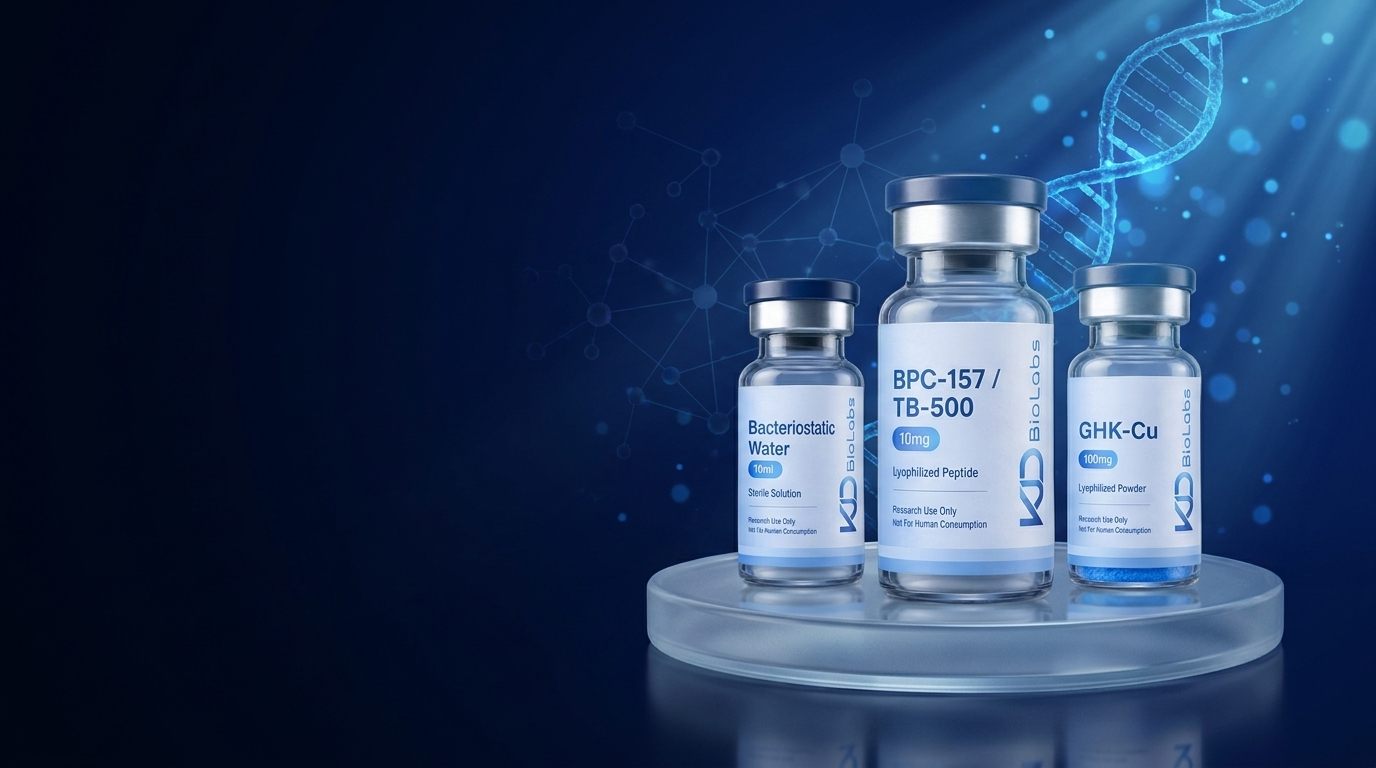
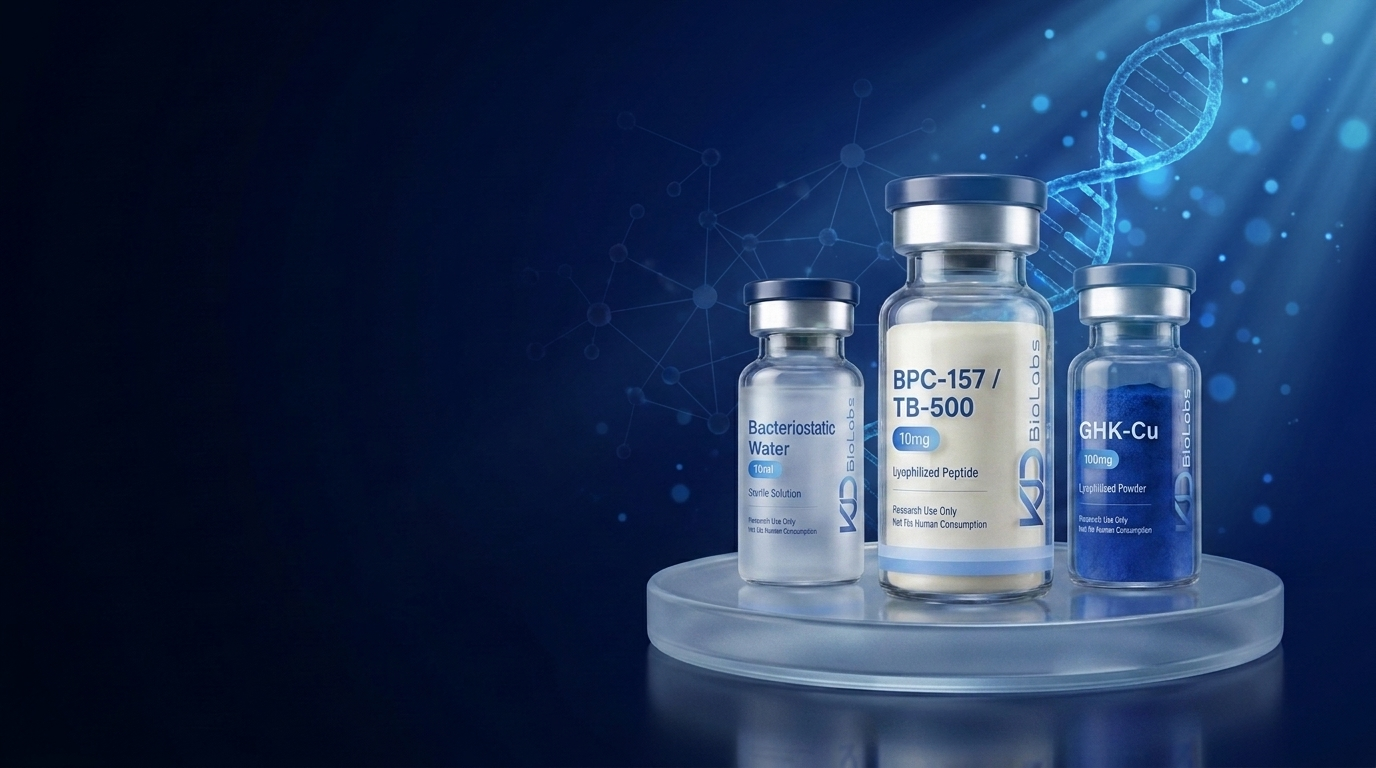
feat: solid (filled) hero vials + animated hero scene
- Regenerated the hero (Gemini edit pass) so the vials read as full and
  substantial: dense lyophilized cake / frosted liquid / blue powder instead
  of empty see-through glass. Composition, pedestal, DNA, rays preserved.
- Added motion over the static scene: a slow cinematic drift on the image
  (animate-hero-pan) plus 6 rising glow particles. GPU transform/opacity only,
  disabled under prefers-reduced-motion.

diff --git a/src/app/globals.css b/src/app/globals.css
@@ -171,6 +171,24 @@ body {
 .animate-float-slow { animation: float-slow 9.5s ease-in-out infinite; }
 .animate-marquee { animation: marquee 30s linear infinite; }
 
+/* Hero: slow cinematic drift on the 3D scene + rising glow particles */
+@keyframes hero-pan { 0%, 100% { transform: scale(1.02); } 50% { transform: scale(1.05) translate3d(-1%, -0.8%, 0); } }
+.animate-hero-pan { animation: hero-pan 26s ease-in-out infinite; will-change: transform; }
+@keyframes particle-rise {
+  0% { transform: translateY(10px) scale(0.7); opacity: 0; }
+  20% { opacity: 0.85; }
+  80% { opacity: 0.5; }
+  100% { transform: translateY(-72px) scale(1.4); opacity: 0; }
+}
+.hero-particle {
+  position: absolute;
+  border-radius: 9999px;
+  background: radial-gradient(circle, rgba(186,230,253,0.95), rgba(43,196,230,0.2) 65%, transparent 75%);
+  animation: particle-rise 8s ease-in-out infinite;
+  pointer-events: none;
+  will-change: transform, opacity;
+}
+
 /* Hero aurora — slow, GPU-composited drifting glows (transform-only) */
 @keyframes aurora-a { 0%, 100% { transform: translate3d(0,0,0) scale(1); } 50% { transform: translate3d(7%, -9%, 0) scale(1.18); } }
 @keyframes aurora-b { 0%, 100% { transform: translate3d(0,0,0) scale(1.06); } 50% { transform: translate3d(-9%, 7%, 0) scale(1); } }
@@ -223,7 +241,8 @@ body {
 /* Respect reduced-motion: stop all motion to cut compositor load */
 @media (prefers-reduced-motion: reduce) {
   .animate-float, .animate-float-slow, .animate-vial-a, .animate-vial-b, .animate-marquee,
-  .aurora-a, .aurora-b, .text-gradient-anim, .text-aqua-anim, .fade-up {
+  .aurora-a, .aurora-b, .text-gradient-anim, .text-aqua-anim, .fade-up,
+  .animate-hero-pan, .hero-particle {
     animation: none !important;
   }
   .fade-up { opacity: 1; }

diff --git a/src/app/page.tsx b/src/app/page.tsx
@@ -91,11 +91,20 @@ export default function Home() {
           fill
           priority
           sizes="100vw"
-          className="object-cover object-[72%_center] lg:object-right"
+          className="animate-hero-pan object-cover object-[72%_center] lg:object-right"
         />
         {/* navy gradients keep the headline legible over the scene */}
         <div className="absolute inset-0 bg-gradient-to-r from-ink-950 via-ink-950/90 to-ink-950/25 lg:via-ink-950/55 lg:to-transparent" aria-hidden="true" />
         <div className="absolute inset-x-0 bottom-0 h-24 bg-gradient-to-t from-ink-950 to-transparent" aria-hidden="true" />
+        {/* rising glow particles over the scene */}
+        <div className="absolute inset-0 hidden overflow-hidden sm:block" aria-hidden="true">
+          <span className="hero-particle" style={{ left: "59%", top: "56%", width: "8px", height: "8px", animationDelay: "0s", animationDuration: "8s" }} />
+          <span className="hero-particle" style={{ left: "71%", top: "38%", width: "5px", height: "5px", animationDelay: "1.6s", animationDuration: "7s" }} />
+          <span className="hero-particle" style={{ left: "83%", top: "60%", width: "10px", height: "10px", animationDelay: "0.8s", animationDuration: "9s" }} />
+          <span className="hero-particle" style={{ left: "67%", top: "28%", width: "4px", height: "4px", animationDelay: "3s", animationDuration: "6.5s" }} />
+          <span className="hero-particle" style={{ left: "90%", top: "46%", width: "6px", height: "6px", animationDelay: "2.2s", animationDuration: "8.5s" }} />
+          <span className="hero-particle" style={{ left: "77%", top: "70%", width: "7px", height: "7px", animationDelay: "4.2s", animationDuration: "7.5s" }} />
+        </div>
 
         <div className="relative max-w-7xl mx-auto px-4 sm:px-6 lg:px-8">
           <div className="flex min-h-[600px] max-w-xl flex-col justify-center py-20 sm:py-24 lg:min-h-[680px] lg:max-w-2xl lg:py-28">